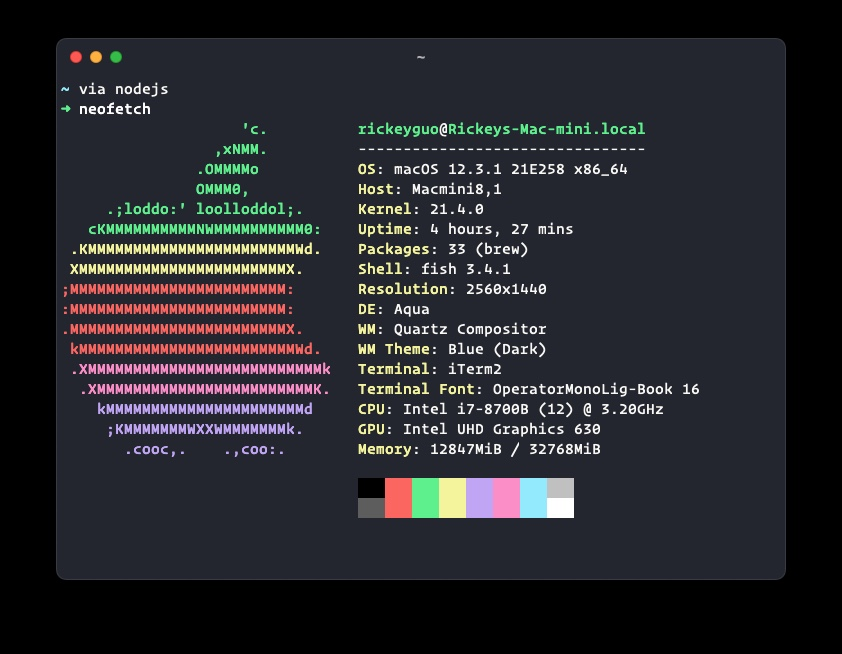
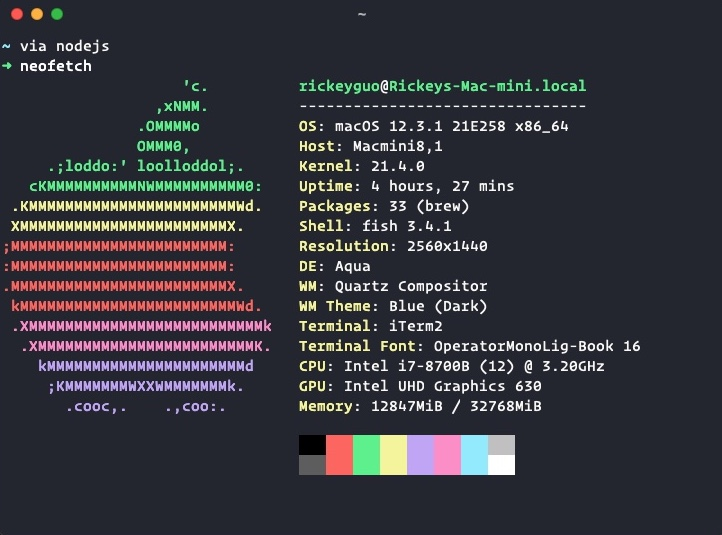
fixed the image url issue

diff --git a/readme.md b/readme.md
@@ -7,4 +7,4 @@ My CLI-based workflow is as follows:
 - Fish shell
 
 These config files are kept in a local git repo and placed in various config locations via symbolic links.
-![neofetch output](https://github.com/[rickeyguo]/[dotfiles]/blob/[master]/neofetch.jpg?raw=true)
+![neofetch output](https://github.com/rickeyguo/dotfiles/blob/master/neofetch.jpg?raw=true)
